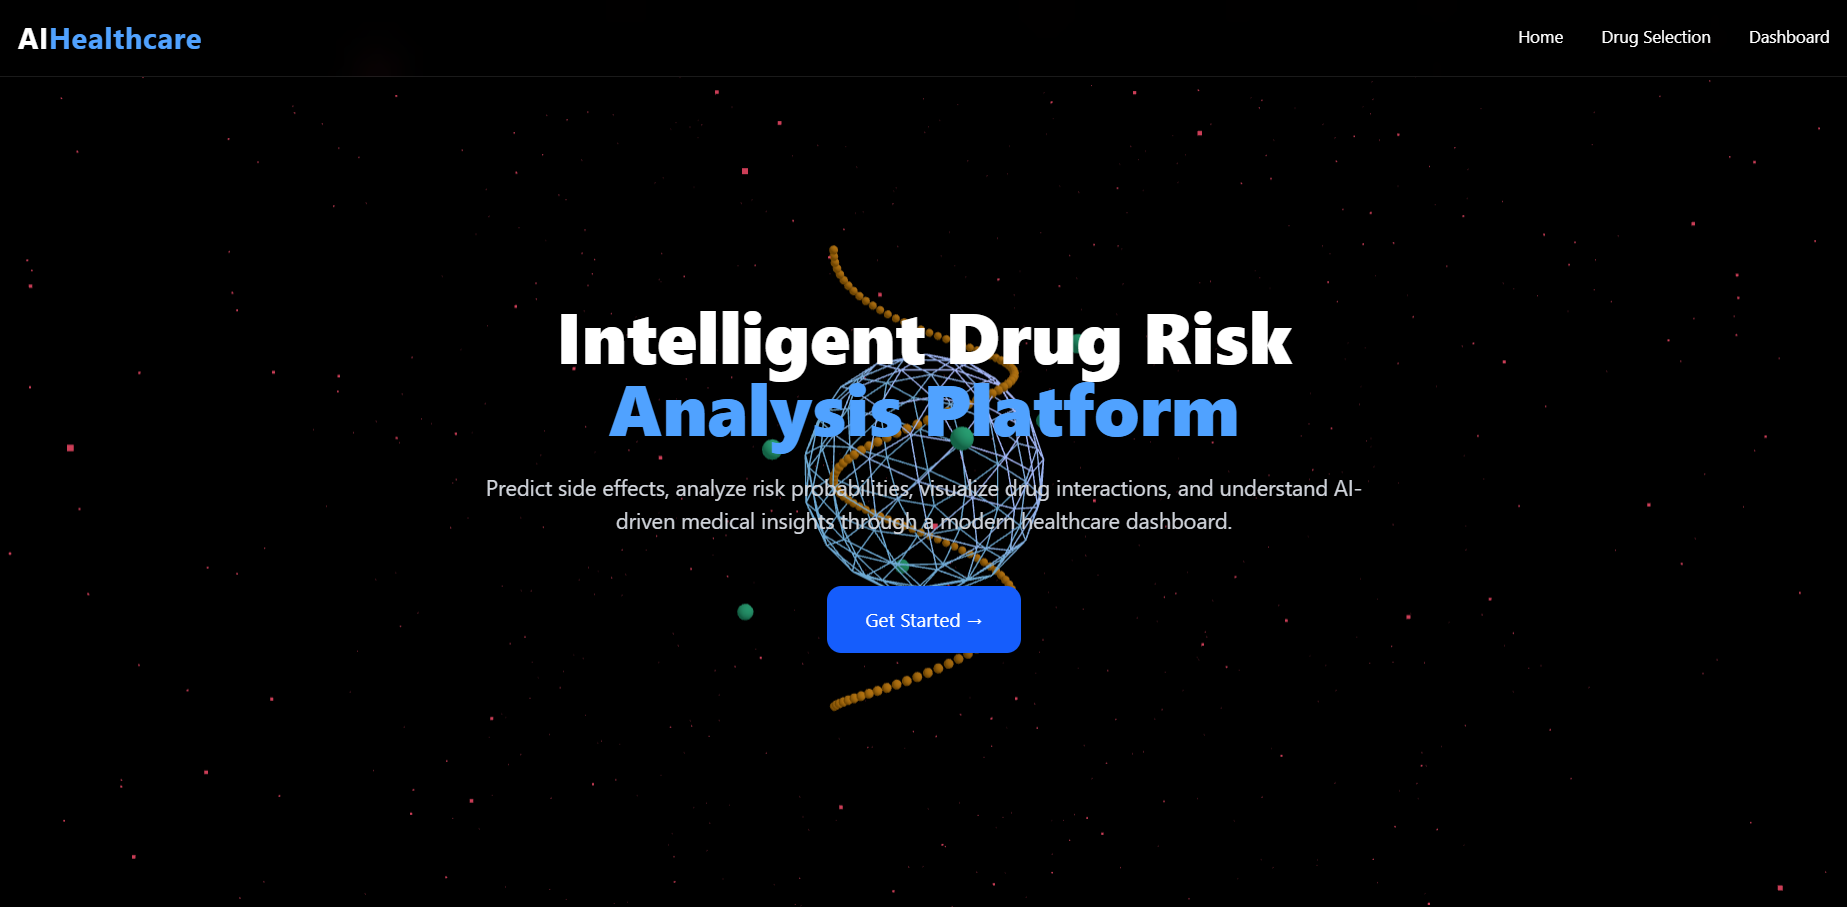
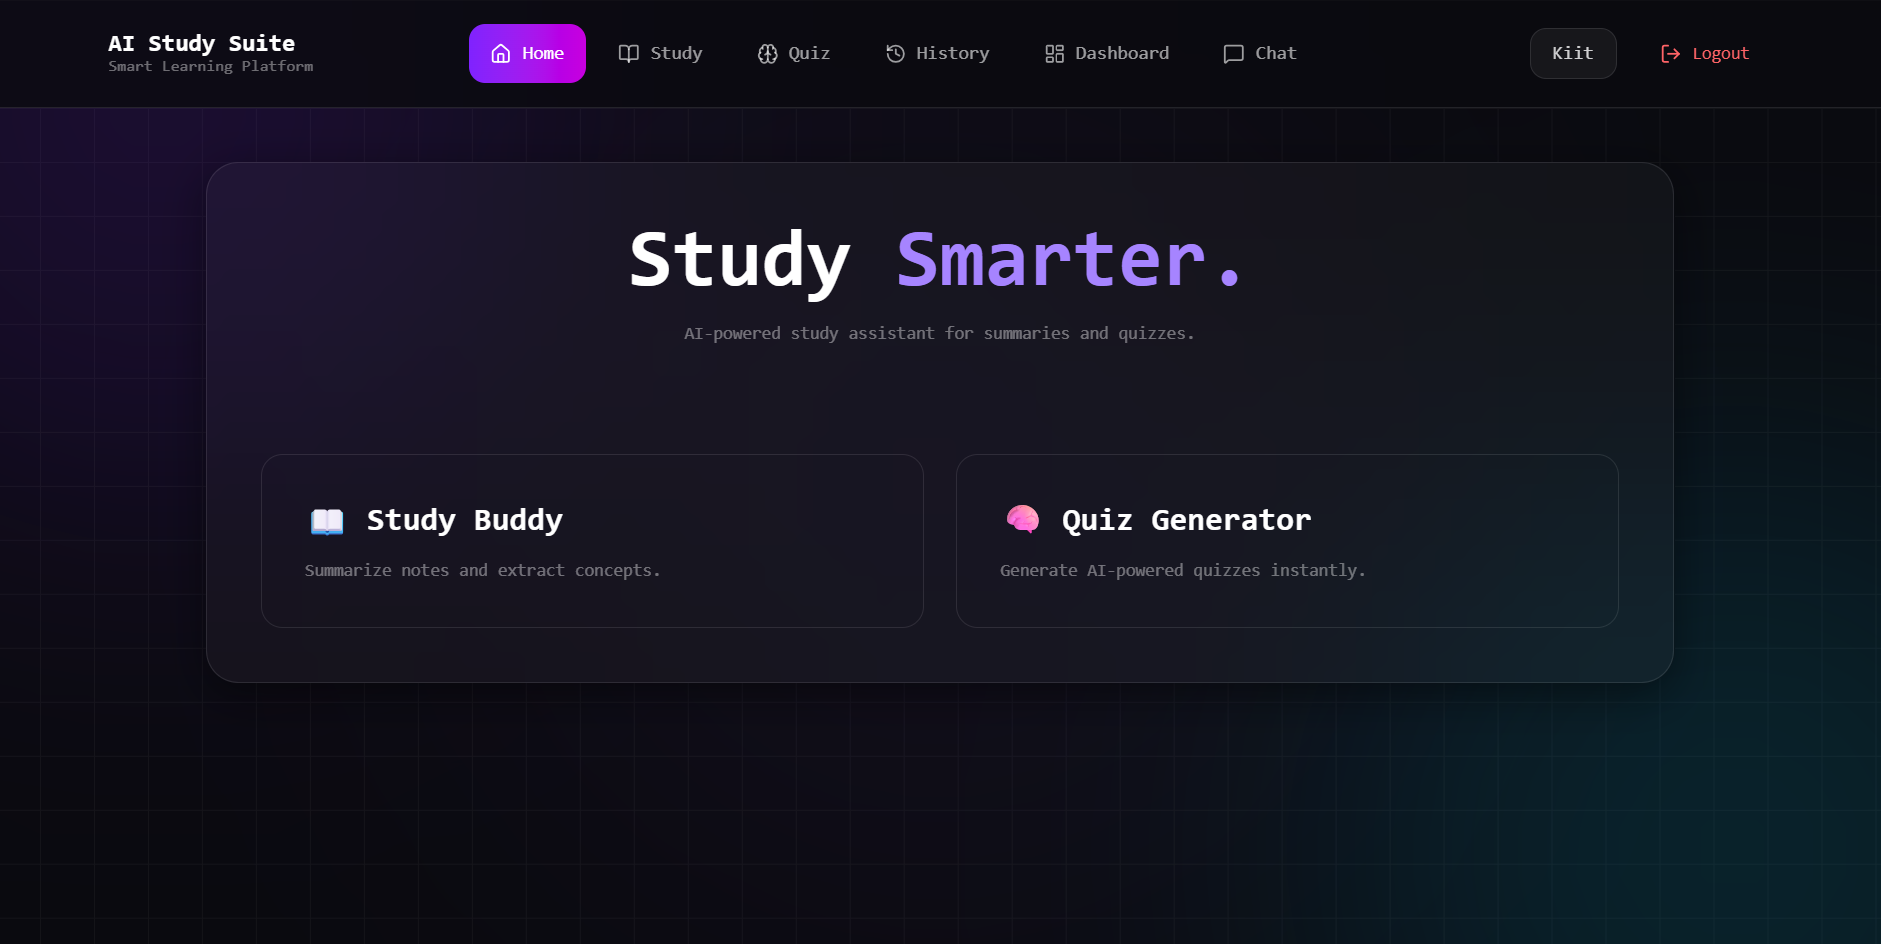
Added project

diff --git a/src/sections/Projects.jsx b/src/sections/Projects.jsx
@@ -75,12 +75,12 @@ const realProjects = [
     image: "/sortify.png"
   },
   {
-    title: "AI for Medicational interaction and side-effect prediction (NOT YET DEPOLYED)",
-    description: "Knowledge system inspired by Derek Sivers.",
-    tech: ["React", "Express", "PostgreSQL", "REST API"],
-    live: "/",
-    code: "/",
-    hover: "from-slate-500/15 via-gray-500/10 to-zinc-500/15",
+    title: "AI Study Suite",
+    description: "AI-powered learning platform featuring note summarization, quiz generation, analytics dashboard, and an intelligent chat tutor with secure authentication.",
+    tech: ["React","Spring Boot","PostgreSQL","Spring Security","JWT","Grok AI",],
+    live: "https://ai-study-pied.vercel.app/login",
+    code: "https://github.com/Ved-nt/AIStudy",
+    hover: "from-violet-500/15 via-cyan-500/10 to-fuchsia-500/15",
     image:"/aiproject.png"
   },
   {
